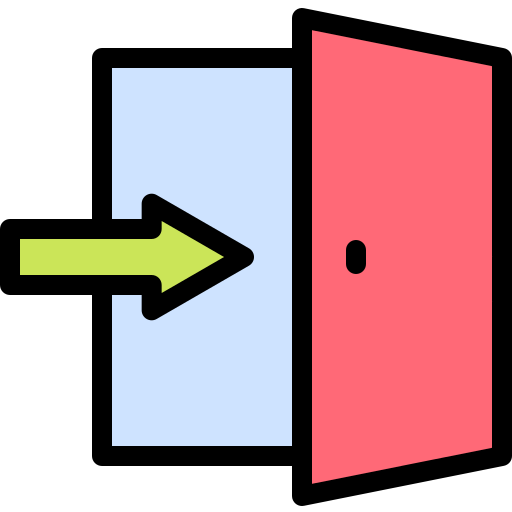
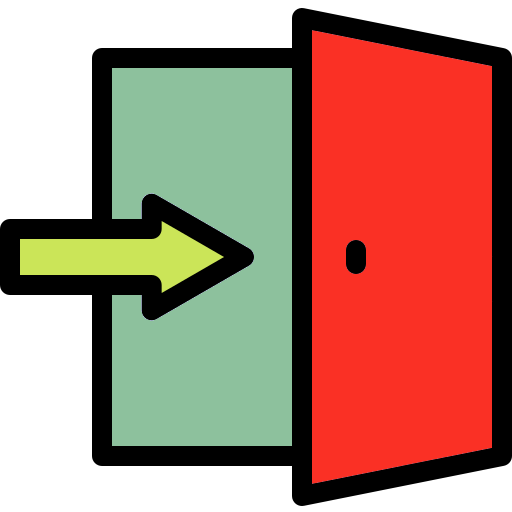
Added second part of the info window (and DPI setting for the whole program!)
So I was trying to get done with the info window. I did, but I was puzzled about the algorith for setting the info window in the middle of the parent window...

Trying to solve that, I though the difference had to do with the size of the info window's title bar not being taken into account for the measurements. So I googled how to get its height, and turns out the snippet I have found for that matter actually required for me to request to make the program "DPI aware" on a OS level.

I didn't know what that was, but after I tested the solution, the whole scale of the windows changed, having a much higher resolution, and a considerably smaller size in general.

Turns out that weird difference in the pixels I specified to tkinter and the actual pixels on the screen I was measuring with powertoys' screen ruler actually was not supposed to be there! It was just that tkinter is old as dirt, and in nower windows systems it doesn't render pixels the same the OS does, for that reason is that my interface looked very blurry. I didn't even consier it may NOT look that way!

diff --git a/Codebase/Mariser_Script.py b/Codebase/Mariser_Script.py
@@ -301,18 +301,38 @@ class Main_Window_Mariser:
                 """
                 
                 def To_Pixels(Rule_Units):
-                        Pixel_Equivalency = 45
+                        Pixel_Equivalency = 55
                         return int( Rule_Units * Pixel_Equivalency )
         
         def __init__(self):
                 Rule_Units = self.Rule_Units
+                
+                # Set DPI awareness(makes the UI look HD lol)
+                from sys import platform
+                if platform in ('win32', 'darwin'):
+                        import ctypes
+                        try: # >= win 8.1
+                            ctypes.windll.shcore.SetProcessDpiAwareness(2)
+                        except: # win 8.0 or less
+                            ctypes.windll.user32.SetProcessDPIAware()
 
                 def Create_Info_Window():
                         def Center_Toplevel(parent, toplevel):
-                                # Source: https://chatgpt.com/s/t_69d0924b0ed4819184d50c851c3a49c0
+                                def Get_TitleBar_Height():
+                                # Source: Adapted from: https://stackoverflow.com/a/61492953
+                                        TitleBar_Height = 0
+                                        
+                                        if platform not in ('win32', 'darwin'): return 0
+                                        # All of the dpi thing is done above cuz it makes the whole interface look nicer :)
+                                        offset_y = int(toplevel.geometry().rsplit('+', 1)[-1])
+
+                                        TitleBar_Height = toplevel.winfo_rooty() - offset_y
+                                        return TitleBar_Height
                                 
+                                # Source: https://chatgpt.com/s/t_69d0924b0ed4819184d50c851c3a49c0
                                 parent.update_idletasks()
                                 toplevel.update_idletasks()
+                                Title_Bars_Height = ( Get_TitleBar_Height() * 2 )
 
                                 # Parent geometry
                                 parent_x = parent.winfo_rootx()
@@ -321,23 +341,18 @@ class Main_Window_Mariser:
                                 parent_height = parent.winfo_height()
 
                                 # Toplevel size
-                                width = toplevel.winfo_width()
-                                height = toplevel.winfo_height()
+                                width = ( toplevel.winfo_width() + Title_Bars_Height )
+                                height = ( toplevel.winfo_height() + Title_Bars_Height )
 
                                 # Compute centered position
-                                x = parent_x + (parent_width // 2) - (width // 2)
-                                y = parent_y + (parent_height // 2) - (height // 2)
+                                x = parent_x + ( ( parent_width - width ) // 2 )
+                                y = parent_y + ( ( parent_height - height ) // 2 )
 
-                                toplevel.geometry(f"{width}x{height}+{x}+{y}")
+                                toplevel.geometry(f"+{x}+{y}")
                         
                         Info_Modal_Window = tkinter.Toplevel(Root_Window)
                         Info_Modal_Window.resizable(width=False, height=False)
                         Info_Modal_Window.title("Info: Mariser!")
-                        
-                        
-                        #Info_Modal_Window.transient(Root_Window)
-                        #Info_Modal_Window.grab_set()
-                        #Center_Toplevel(Root_Window, Info_Modal_Window)
                         
                         Info_Frame = ttk.Frame(Info_Modal_Window)
                         Info_Frame.grid(sticky='NEWS')
@@ -370,6 +385,43 @@ class Main_Window_Mariser:
                         Subtitle_Label = ttk.Label(Title_Frame, wraplength=Rule_Units.To_Pixels(8), text='Es un regalo🎁 de Lucas para Marisa, ojalá tu vida sea un poco más fácil con esto :)')
                         Subtitle_Label.grid(column=0, columnspan=3, row=1, sticky='W')
                         
+                        # Add the acknowldegments
+                        Acknowledgements_Frame = ttk.Frame(Info_Frame)
+                        Acknowledgements_Frame.grid(column=1, columnspan=3, row=5, sticky='W')
+                        
+                        Icons_Size = (Rule_Units.To_Pixels(0.75),  Rule_Units.To_Pixels(0.75))
+                       
+                        Python_Icon_Image = ImageTk.PhotoImage(Image.open(r'../Assets/Images/Python Logo.png').resize(Icons_Size))
+                        Github_Icon_Image = ImageTk.PhotoImage(Image.open(r'../Assets/Images/Github Logo.png').resize(Icons_Size))
+                        Hotel_Icon_Image = ImageTk.PhotoImage(Image.open(r'../Assets/Images/Hotel Logo.png').resize(Icons_Size))
+                        Python_Label1 = ttk.Label(Acknowledgements_Frame, image=Python_Icon_Image)
+                        Github_Label1 = ttk.Label(Acknowledgements_Frame, image=Github_Icon_Image)
+                        Hotel_Label1 = ttk.Label(Acknowledgements_Frame, image=Hotel_Icon_Image)
+                        Python_Label1.image = Python_Icon_Image
+                        Github_Label1.image = Github_Icon_Image
+                        Hotel_Label1.image = Hotel_Icon_Image
+                        
+                        Python_Label1.grid(column=1, row=0)
+                        Github_Label1.grid(column=1, row=1)
+                        Hotel_Label1.grid(column=1, row=2)
+                        
+                        Python_Label2 = ttk.Label(Acknowledgements_Frame, text='Diseñado en Python con Tkinter')
+                        Github_Label2 = ttk.Label(Acknowledgements_Frame, text='Código libre a beneficio del equipo (InnerSource)')
+                        Hotel_Label2 = ttk.Label(Acknowledgements_Frame, text='Para el equipo de De La Plaza Hotel')
+                        
+                        Python_Label2.grid(column=3, row=0, sticky='W')
+                        Github_Label2.grid(column=3, row=1, sticky='W')
+                        Hotel_Label2.grid(column=3, row=2, sticky='W')
+                        
+                        # Personal signature
+                        Signature_Label = tkinter.Label(Info_Frame, text='Creado por Lucas Da Silva @ 2026', fg='gray40', font=('Helvetica', 7, 'italic'))
+                        Signature_Label.grid(row=6, column=3, sticky='E')
+                        
+                        # Make the window modal
+                        Info_Modal_Window.transient(Root_Window)
+                        Center_Toplevel(Root_Window, Info_Modal_Window)
+                        Info_Modal_Window.grab_set()
+                        
                         # Frame Padding
                         Padding_Size = Rule_Units.To_Pixels(0.5)
                         Half_Padding = int(Padding_Size/2)
@@ -383,12 +435,16 @@ class Main_Window_Mariser:
                         # Element Padding
                         ## Title
                         Info_Frame.columnconfigure(2, minsize=Padding_Size)
+                        ## Acknowledgments
+                        Info_Frame.rowconfigure(2, minsize=Padding_Size)
+                        Acknowledgements_Frame.columnconfigure(0, minsize=Half_Padding)
+                        Acknowledgements_Frame.columnconfigure(2, minsize=Half_Padding)
                         
-                        
-                        
-                        
-                        
-                                
+                        # Element Sizing
+                        ## Acknowledgments
+                        Acknowledgements_Frame.columnconfigure(0, minsize=Half_Padding)
+                        ## Signature
+                        Info_Frame.rowconfigure(6, minsize=Half_Padding)        
                         
                 Root_Window = Tk()
                 Root_Window.resizable(width=False, height=False)
@@ -446,12 +502,12 @@ class Main_Window_Mariser:
                 
                 Buttons_Frame = ttk.Frame(Main_Frame)
                 File_Button = tkinter.Button(Buttons_Frame, text='Seleccionar Documento Fuente',
-                                             wraplength = 125, bg = 'firebrick2', fg = 'floral white', relief='solid',
+                                             wraplength = Rule_Units.To_Pixels(2.8), bg = 'firebrick2', fg = 'floral white', relief='solid',
                                              activebackground = 'firebrick3', activeforeground = 'white smoke',                                                                                                                                                                                              
                                              font = font.Font(weight='bold', size=9),
                                              image=Dummy_Image, compound='c')
                 Directory_Button = tkinter.Button(Buttons_Frame, text='Seleccionar Carpeta de Destino',
-                                                  wraplength = 130, bg = 'yellow', fg = 'black', relief='solid',
+                                                  wraplength = Rule_Units.To_Pixels(2.9), bg = 'yellow', fg = 'black', relief='solid',
                                                   activebackground = 'gold2', activeforeground = 'black',
                                                   font = font.Font(weight='bold', size=9),
                                                   image=Dummy_Image, compound='c')
